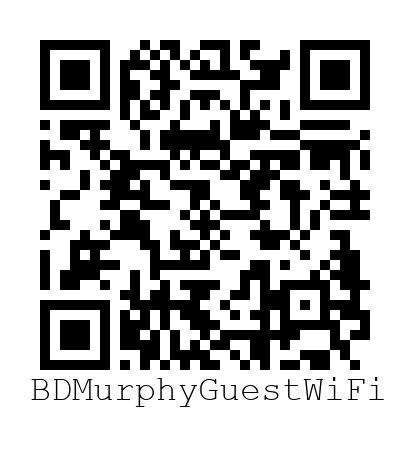
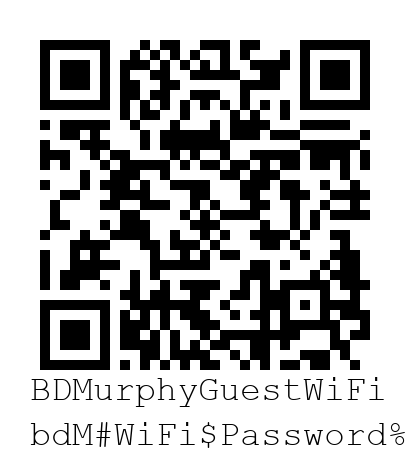
Changed to add text of password

diff --git a/GenerateQRCode.py b/GenerateQRCode.py
@@ -48,8 +48,11 @@ draw = ImageDraw.Draw(new_img)
 myFont = ImageFont.truetype('\windows\fonts\cour.ttf', 35)
 
 # Add text with the defined font style
-# Put the text at 90 pixels from the bottom of the image. Color is black.
+# Put the SSID at 90 pixels from the bottom of the image. Color is black.
+# Put the password at 45 pixels from the bottom
+# A guest can read and type in the text if the scan doesn't work.
 draw.text((30, (new_img.height - 90)), myssid, font=myFont, fill=(0,0,0))
+draw.text((30, (new_img.height - 45)), mypasswd, font=myFont, fill=(0,0,0))
 
 # Save the modified image
 new_img.save(imagefile)
